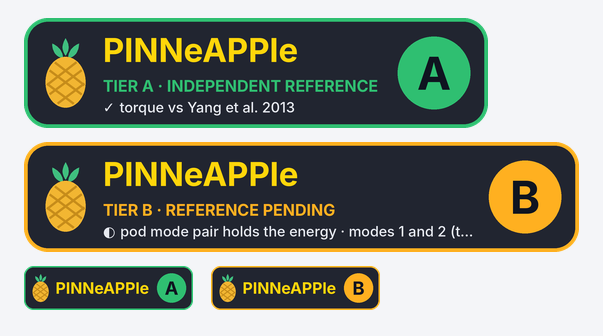
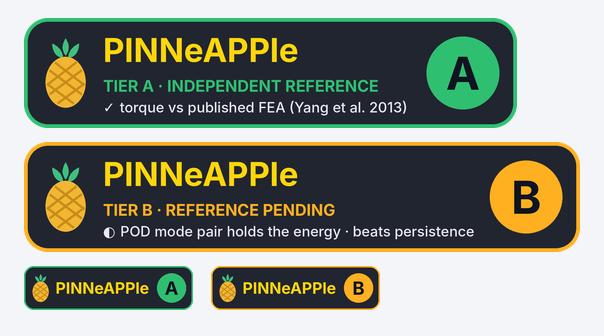
Seal: the reason line is the item's curated display label when it has one

diff --git a/pinneapple_lab/seal.py b/pinneapple_lab/seal.py
@@ -59,7 +59,7 @@ class Seal:
     item: str
     tier: str
     title: str
-    reason: str          # the curation headline: the check it was compared with
+    reason: str          # the curation headline: the check it was compared with (its display label when it has one)
     reason_kind: str     # "reference" or "benchmark"
     curated: str         # when the curation that gave the tier ran
     experiment: str
@@ -105,7 +105,7 @@ def seal_for(item: str, lab: Any = None) -> Seal:
     if tier not in SEALABLE:
         raise SealError(f"{item} is tier {tier} ({rec.get('tier_name', '')}): only tiers A and B are sealed")
     hl = rec.get("headline") or {}
-    return Seal(item=item, tier=tier, title=rec.get("title") or item, reason=hl.get("text", ""),
+    return Seal(item=item, tier=tier, title=rec.get("title") or item, reason=hl.get("label") or hl.get("text", ""),
                 reason_kind=hl.get("kind", ""), curated=str(cur.get("generated", "")),
                 experiment=rec.get("experiment", item.split("/")[0]), run_id=rec.get("best_run", ""))
 

diff --git a/tests/test_lab_seal.py b/tests/test_lab_seal.py
@@ -56,6 +56,9 @@ def test_seal_tier_always_from_the_curation(tmp_path):
     s = seal_for("a/x", root)
     assert s.tier == "A" and s.colour == "#2FBF71" and s.reason == "check of a/x"
     assert seal_for("b/y", root).colour == "#FFB020"
+    cur = load_curation(root)
+    cur["items"]["a/x"]["headline"]["label"] = "drag vs Ahmed 1984"   # the display label wins over the raw text
+    assert seal_for("a/x", cur).reason == "drag vs Ahmed 1984"
     with pytest.raises(SealError):
         seal_for("c/z", root)                                  # C and D are never sealed
     with pytest.raises(KeyError):
